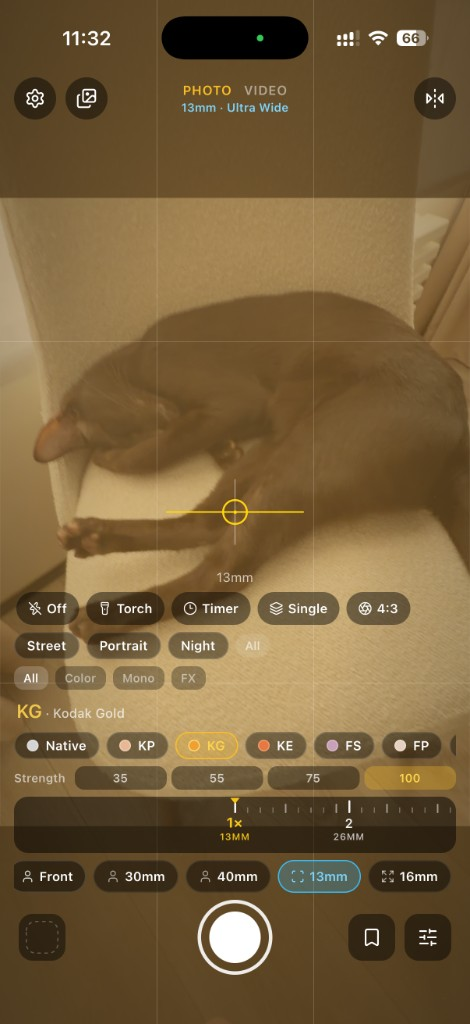
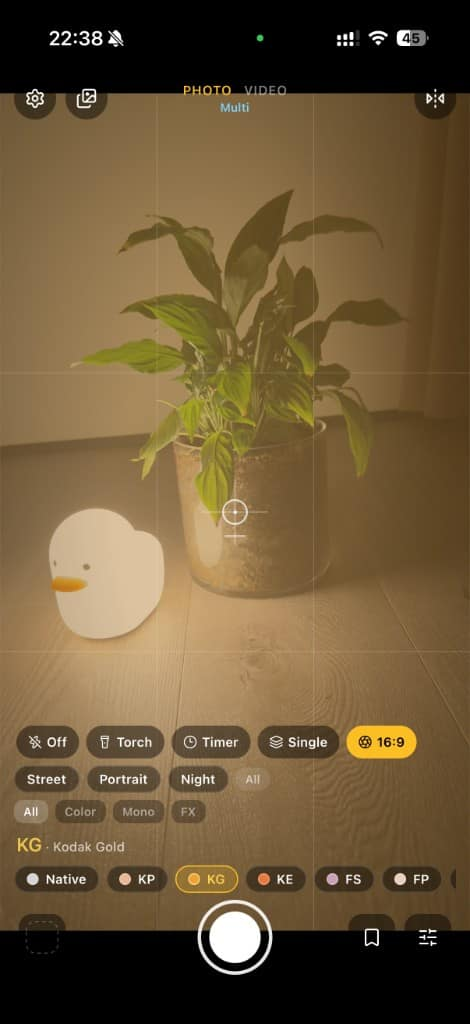
docs: add Android and iOS store release checklist
Document what is ready versus still required for Play and App Store publication, with links to the asset map and Play runbooks.

diff --git a/README.md b/README.md
@@ -32,9 +32,9 @@
 
 <br />
 
-> Iris is a pro camera app for iOS built with Expo Dev Client, Vision Camera, and a custom native look-bake module.
+> Iris is a pro camera app for iOS and Android built with Expo Dev Client, Vision Camera, and a custom native look-bake module.
 >
-> Android packaging is scaffolded; the primary target today is iOS on a physical device.
+> Primary day-to-day target is still iOS on a physical device; Android production builds (APK / AAB) are ready via EAS — see Play Store docs below.
 
 ## Quick start
 
@@ -61,6 +61,43 @@ npm start              # expo start --dev-client
 - [Vision Camera](https://github.com/mrousavy/react-native-vision-camera) · [docs](https://visioncamera.margelo.com)
 - [Expo Router](https://docs.expo.dev/router/introduction/)
 - Native look bake: [`modules/iris-look-bake/`](modules/iris-look-bake/)
+- Privacy policy: [`docs/privacy.md`](docs/privacy.md) · [live page](https://dmitryshelomanov.github.io/iris/privacy/)
+- [Store assets map](docs/STORE-ASSETS.md) — what to upload where, regenerate commands
+
+### Android / Google Play
+
+- [Play Console setup](docs/play-store/PLAY-CONSOLE.md) — AAB upload, keystore backup, `eas submit`
+- [Store listing copy](docs/play-store/LISTING.md) — name, short/full description, asset paths
+- [Data safety answers](docs/play-store/DATA-SAFETY.md) — Play Console forms & permissions
+- Listing assets: [`docs/play-store/`](docs/play-store/) · phone screenshots: [`docs/store-screenshots/android/framed-*.png`](docs/store-screenshots/android/)
+- iPhone App Store screenshots (ready): [`docs/store-screenshots/*.png`](docs/store-screenshots/)
+
+```bash
+npm run build:android:preview   # APK for device sideload
+npm run build:android           # AAB for Play Store
+npm run screenshots:store       # iPhone marketing set (1290×2796)
+npm run screenshots:play        # Play graphic + Android framed screenshots
+```
+
+## Store release checklist
+
+| Item                                  | Android / Play                                                                                  | iOS / App Store                               |
+| ------------------------------------- | ----------------------------------------------------------------------------------------------- | --------------------------------------------- |
+| App id / package in config            | Done (`com.iris.camera`)                                                                        | Done (`com.iris.camera`)                      |
+| Icon + splash in binary               | Done                                                                                            | Done                                          |
+| Privacy policy URL                    | Done ([live](https://dmitryshelomanov.github.io/iris/privacy/))                                 | Done (same URL; paste in ASC)                 |
+| Phone listing screenshots             | Done ([`framed-*.png`](docs/store-screenshots/android/))                                        | Done ([`01–06.png`](docs/store-screenshots/)) |
+| Feature graphic / listing icon        | Done ([`play-store/`](docs/play-store/))                                                        | n/a (uses app icon)                           |
+| Listing copy + compliance docs        | Done ([`LISTING`](docs/play-store/LISTING.md), [`DATA-SAFETY`](docs/play-store/DATA-SAFETY.md)) | Todo (`docs/app-store/` not started)          |
+| EAS production profile / scripts      | Done (`build:android`, upload keystore on EAS)                                                  | Todo (no `build:ios` / submit yet)            |
+| Store-signed production binary        | Done (AAB via EAS)                                                                              | Todo (`.ipa` via EAS)                         |
+| Developer account + store console app | Todo (Play Console create + first AAB upload)                                                   | Todo (Apple Developer + App Store Connect)    |
+| Automated submit credentials          | Todo (Google service account for `eas submit`)                                                  | Todo (App Store Connect API key)              |
+| Internal test track                   | Todo (Play Internal testing)                                                                    | Todo (TestFlight)                             |
+| Tablet screenshots                    | Optional                                                                                        | Todo if `supportsTablet` stays true           |
+| Public production release             | Todo                                                                                            | Todo                                          |
+
+Full asset map: [`docs/STORE-ASSETS.md`](docs/STORE-ASSETS.md). Android upload steps: [`docs/play-store/PLAY-CONSOLE.md`](docs/play-store/PLAY-CONSOLE.md).
 
 ## Requirements
 
@@ -70,13 +107,18 @@ npm start              # expo start --dev-client
 
 ## Scripts
 
-| Script               | Purpose                                       |
-| -------------------- | --------------------------------------------- |
-| `npm start`          | Metro + Dev Client                            |
-| `npm run ios`        | Native Debug build and launch                 |
-| `npm run ios:prod`   | Release build on a physical device (no Metro) |
-| `npm run lint:types` | Typecheck (`tsc --noEmit`)                    |
-| `npm run format`     | Prettier write                                |
+| Script                          | Purpose                                       |
+| ------------------------------- | --------------------------------------------- |
+| `npm start`                     | Metro + Dev Client                            |
+| `npm run ios`                   | Native Debug build and launch                 |
+| `npm run ios:prod`              | Release build on a physical device (no Metro) |
+| `npm run build:android:preview` | EAS Android APK (internal / sideload)         |
+| `npm run build:android`         | EAS Android AAB (Play Store)                  |
+| `npm run submit:android`        | EAS submit to Play (`internal` track)         |
+| `npm run screenshots:store`     | iPhone App Store marketing screenshots        |
+| `npm run screenshots:play`      | Play feature graphic + Android screenshots    |
+| `npm run lint:types`            | Typecheck (`tsc --noEmit`)                    |
+| `npm run format`                | Prettier write                                |
 
 ## Stack
 
@@ -111,6 +153,9 @@ src/
 
 modules/iris-look-bake/       Native look bake (photo / video)
 assets/images/                App icon, splash, Android adaptive icons
+docs/STORE-ASSETS.md          Store listing asset map
+docs/store-screenshots/       App Store + Play marketing screenshots
+docs/play-store/              Play listing copy, graphic, runbook
 docs/images/                  README screenshots
 ```
 
